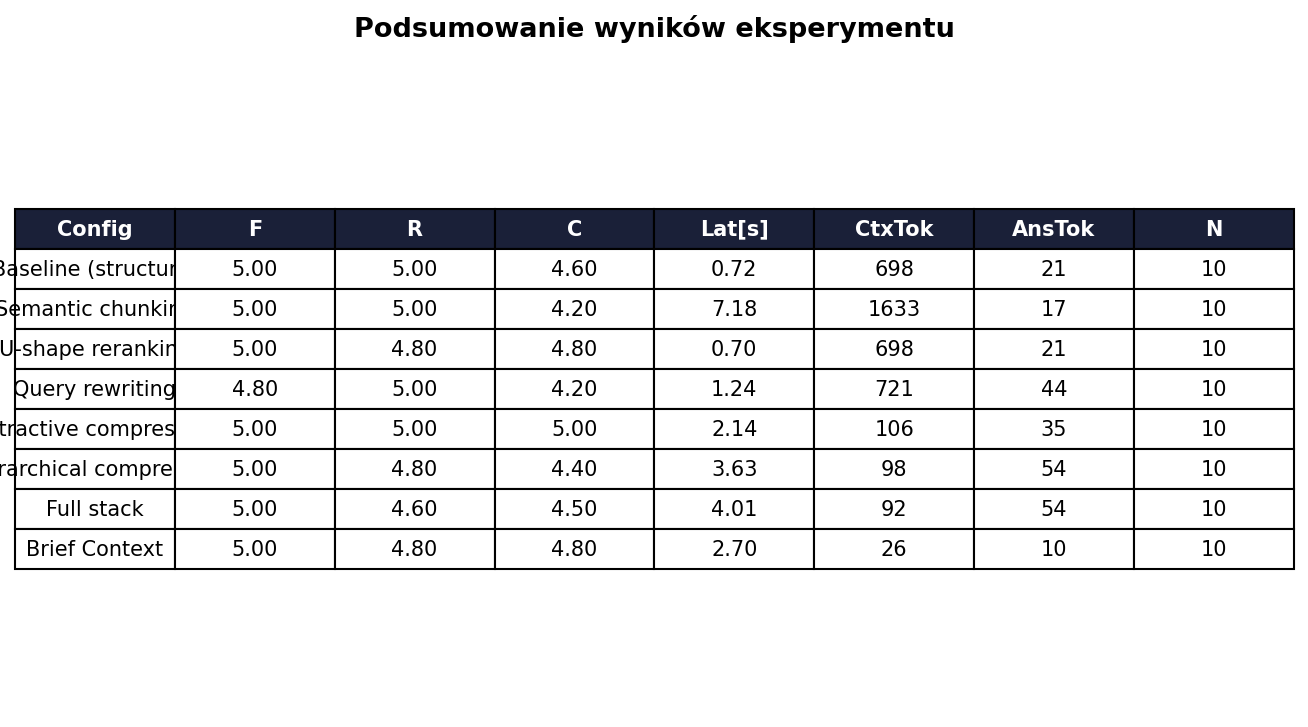
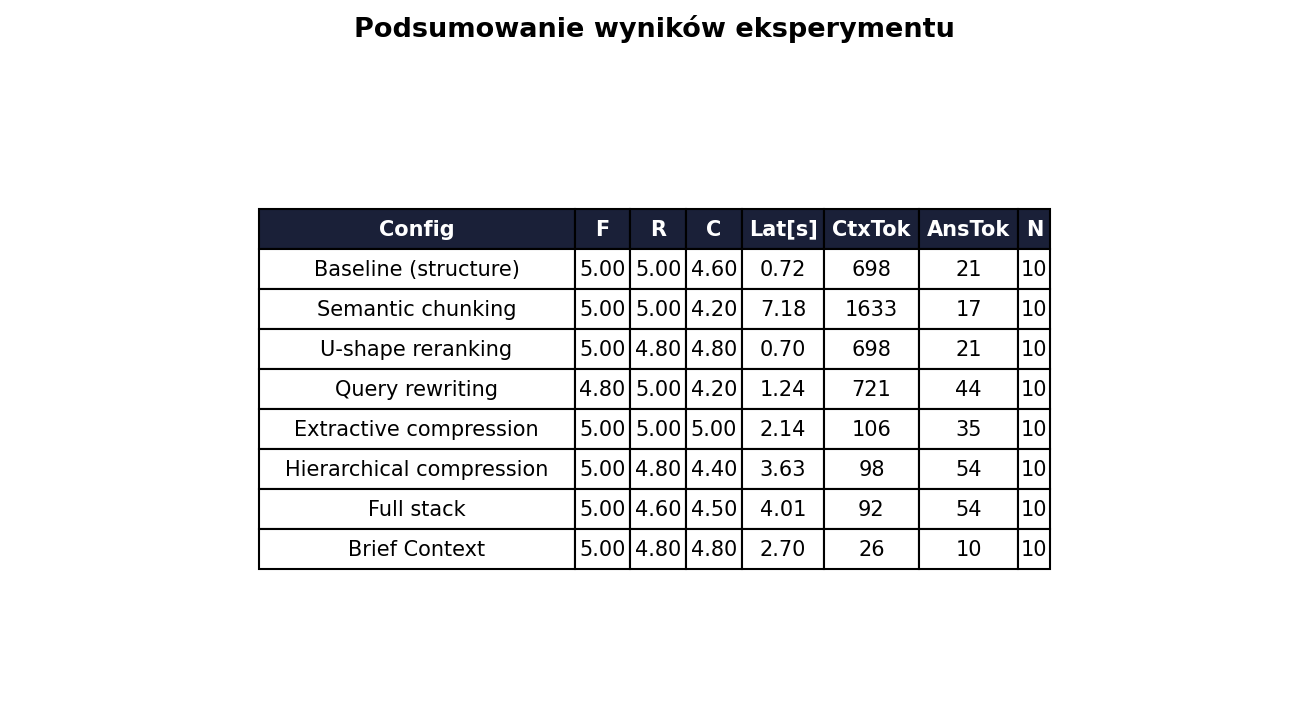
chang ein summary table

diff --git a/evaluation/analysis/visualize.py b/evaluation/analysis/visualize.py
@@ -320,6 +320,8 @@ def plot_summary_table(agg: dict) -> None:
     tbl.set_fontsize(10)
     tbl.scale(1, 1.6)
 
+    tbl.auto_set_column_width(list(range(len(headers))))
+
     for j in range(len(headers)):
         tbl[(0, j)].set_facecolor("#1a2038")
         tbl[(0, j)].set_text_props(color="white", weight="bold")
